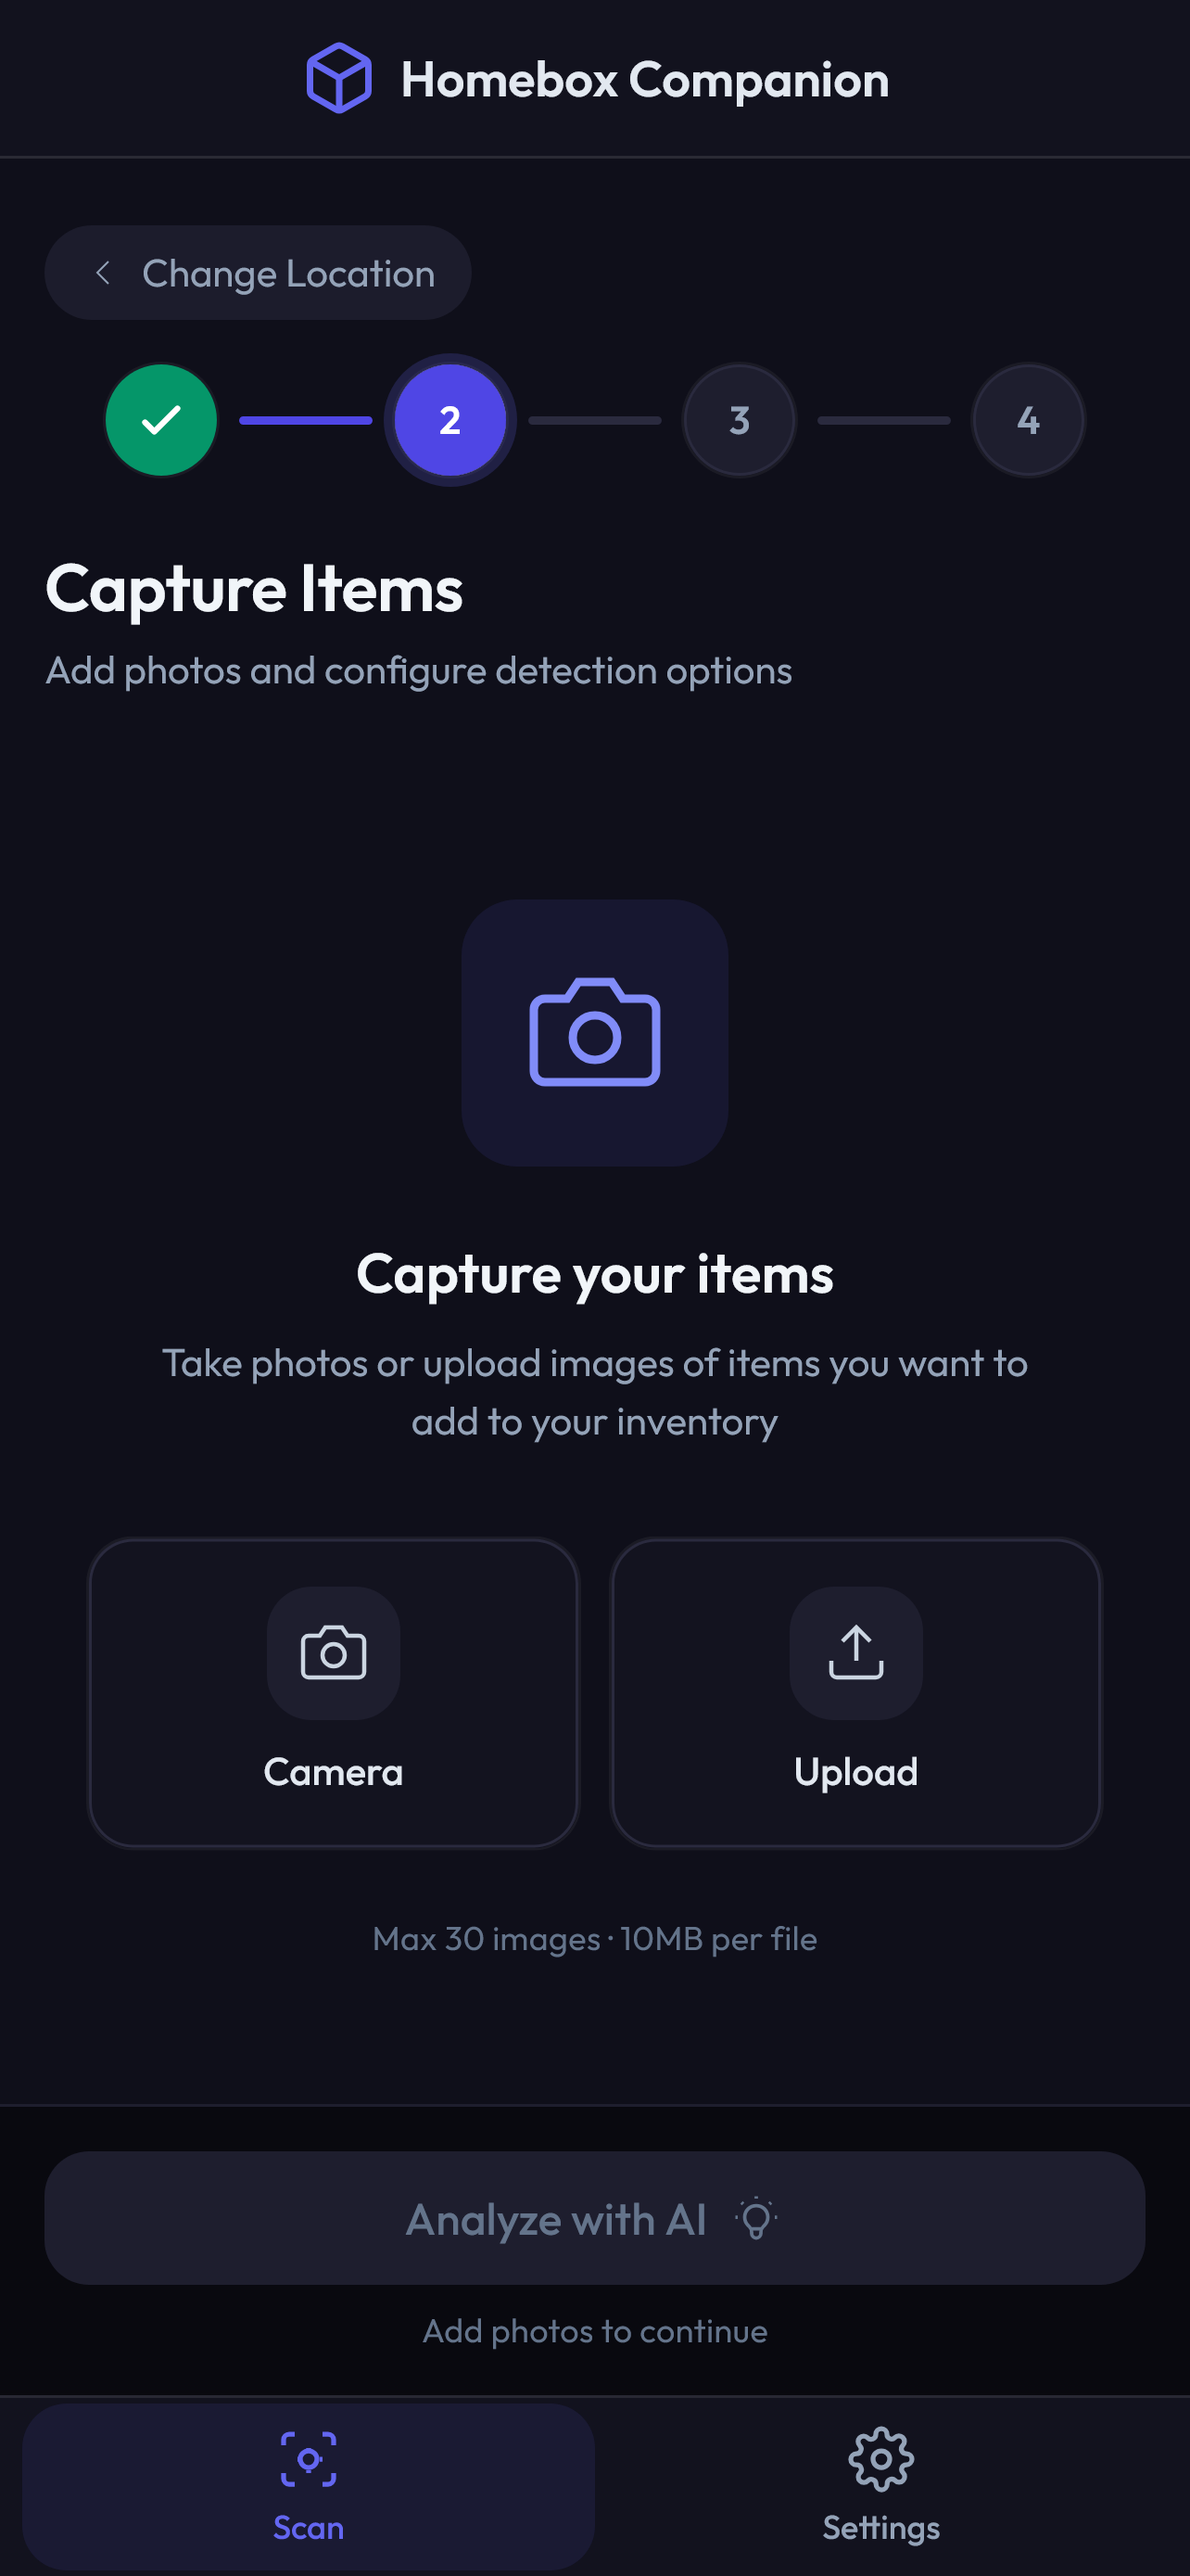
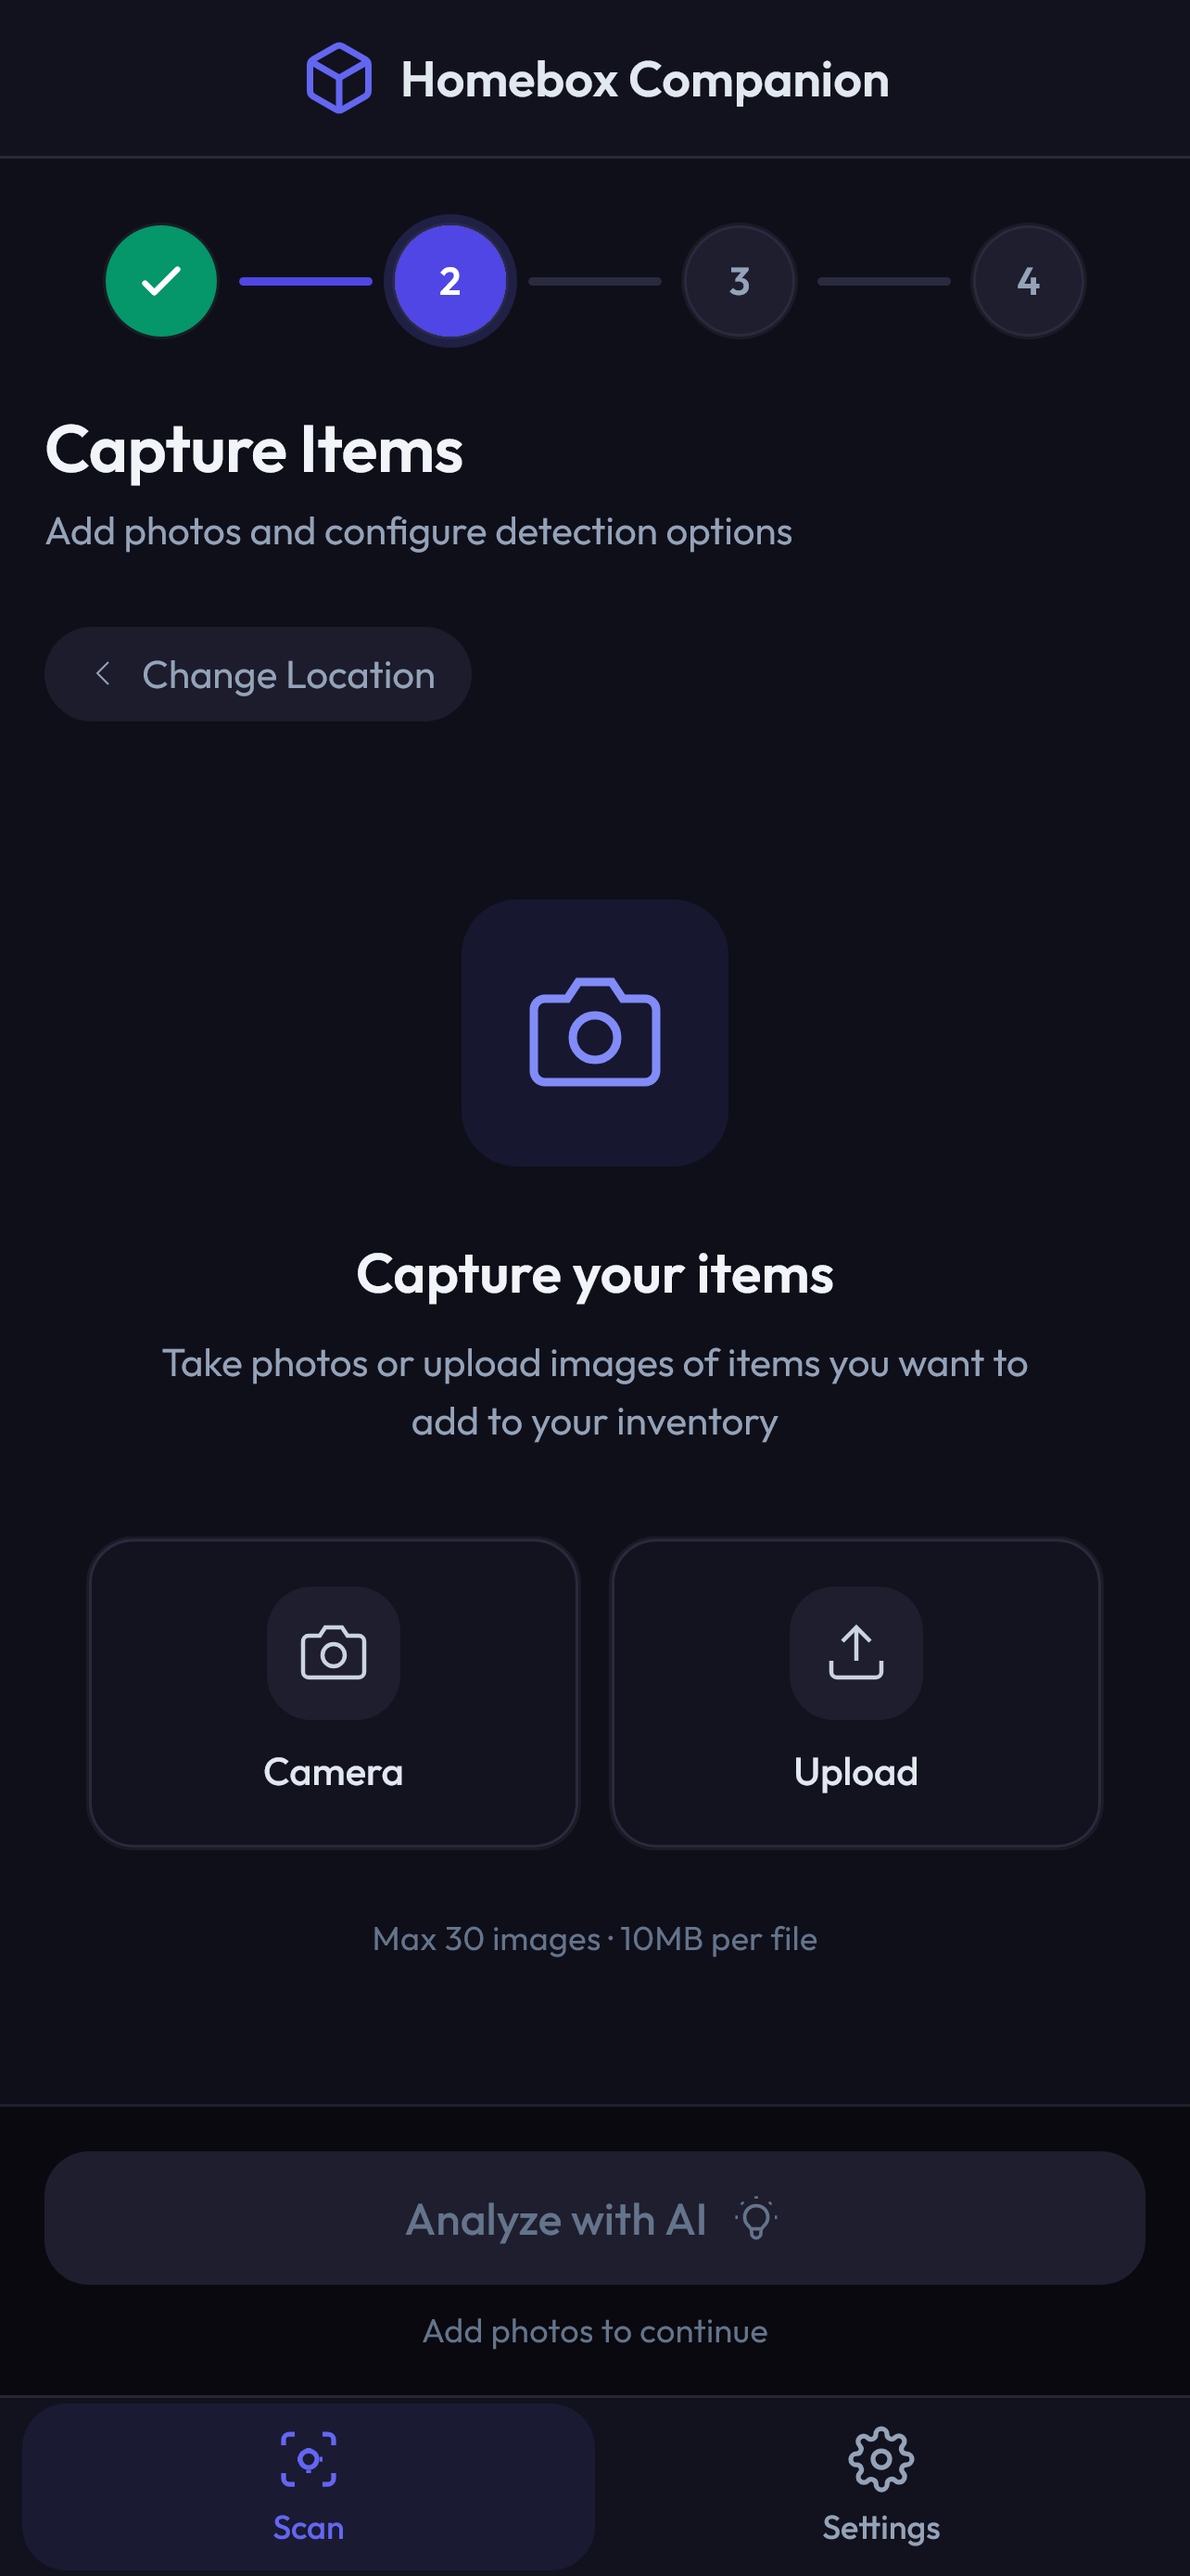
Update images and enhance review page functionality
This commit updates the images for capturing and reviewing items, ensuring they are current. Additionally, it improves the user experience on the review page by adding smooth scrolling to the top when skipping or confirming items, facilitating better navigation between items.

diff --git a/frontend/src/routes/review/+page.svelte b/frontend/src/routes/review/+page.svelte
@@ -135,6 +135,9 @@
 
 	function skipItem() {
 		workflow.skipItem();
+
+		// Scroll to top for next item
+		window.scrollTo({ top: 0, behavior: 'smooth' });
 	}
 
 	function confirmItem() {
@@ -153,6 +156,9 @@
 		}
 
 		workflow.confirmItem(editedItem);
+
+		// Scroll to top for next item
+		window.scrollTo({ top: 0, behavior: 'smooth' });
 	}
 
 	function toggleLabel(labelId: string) {
